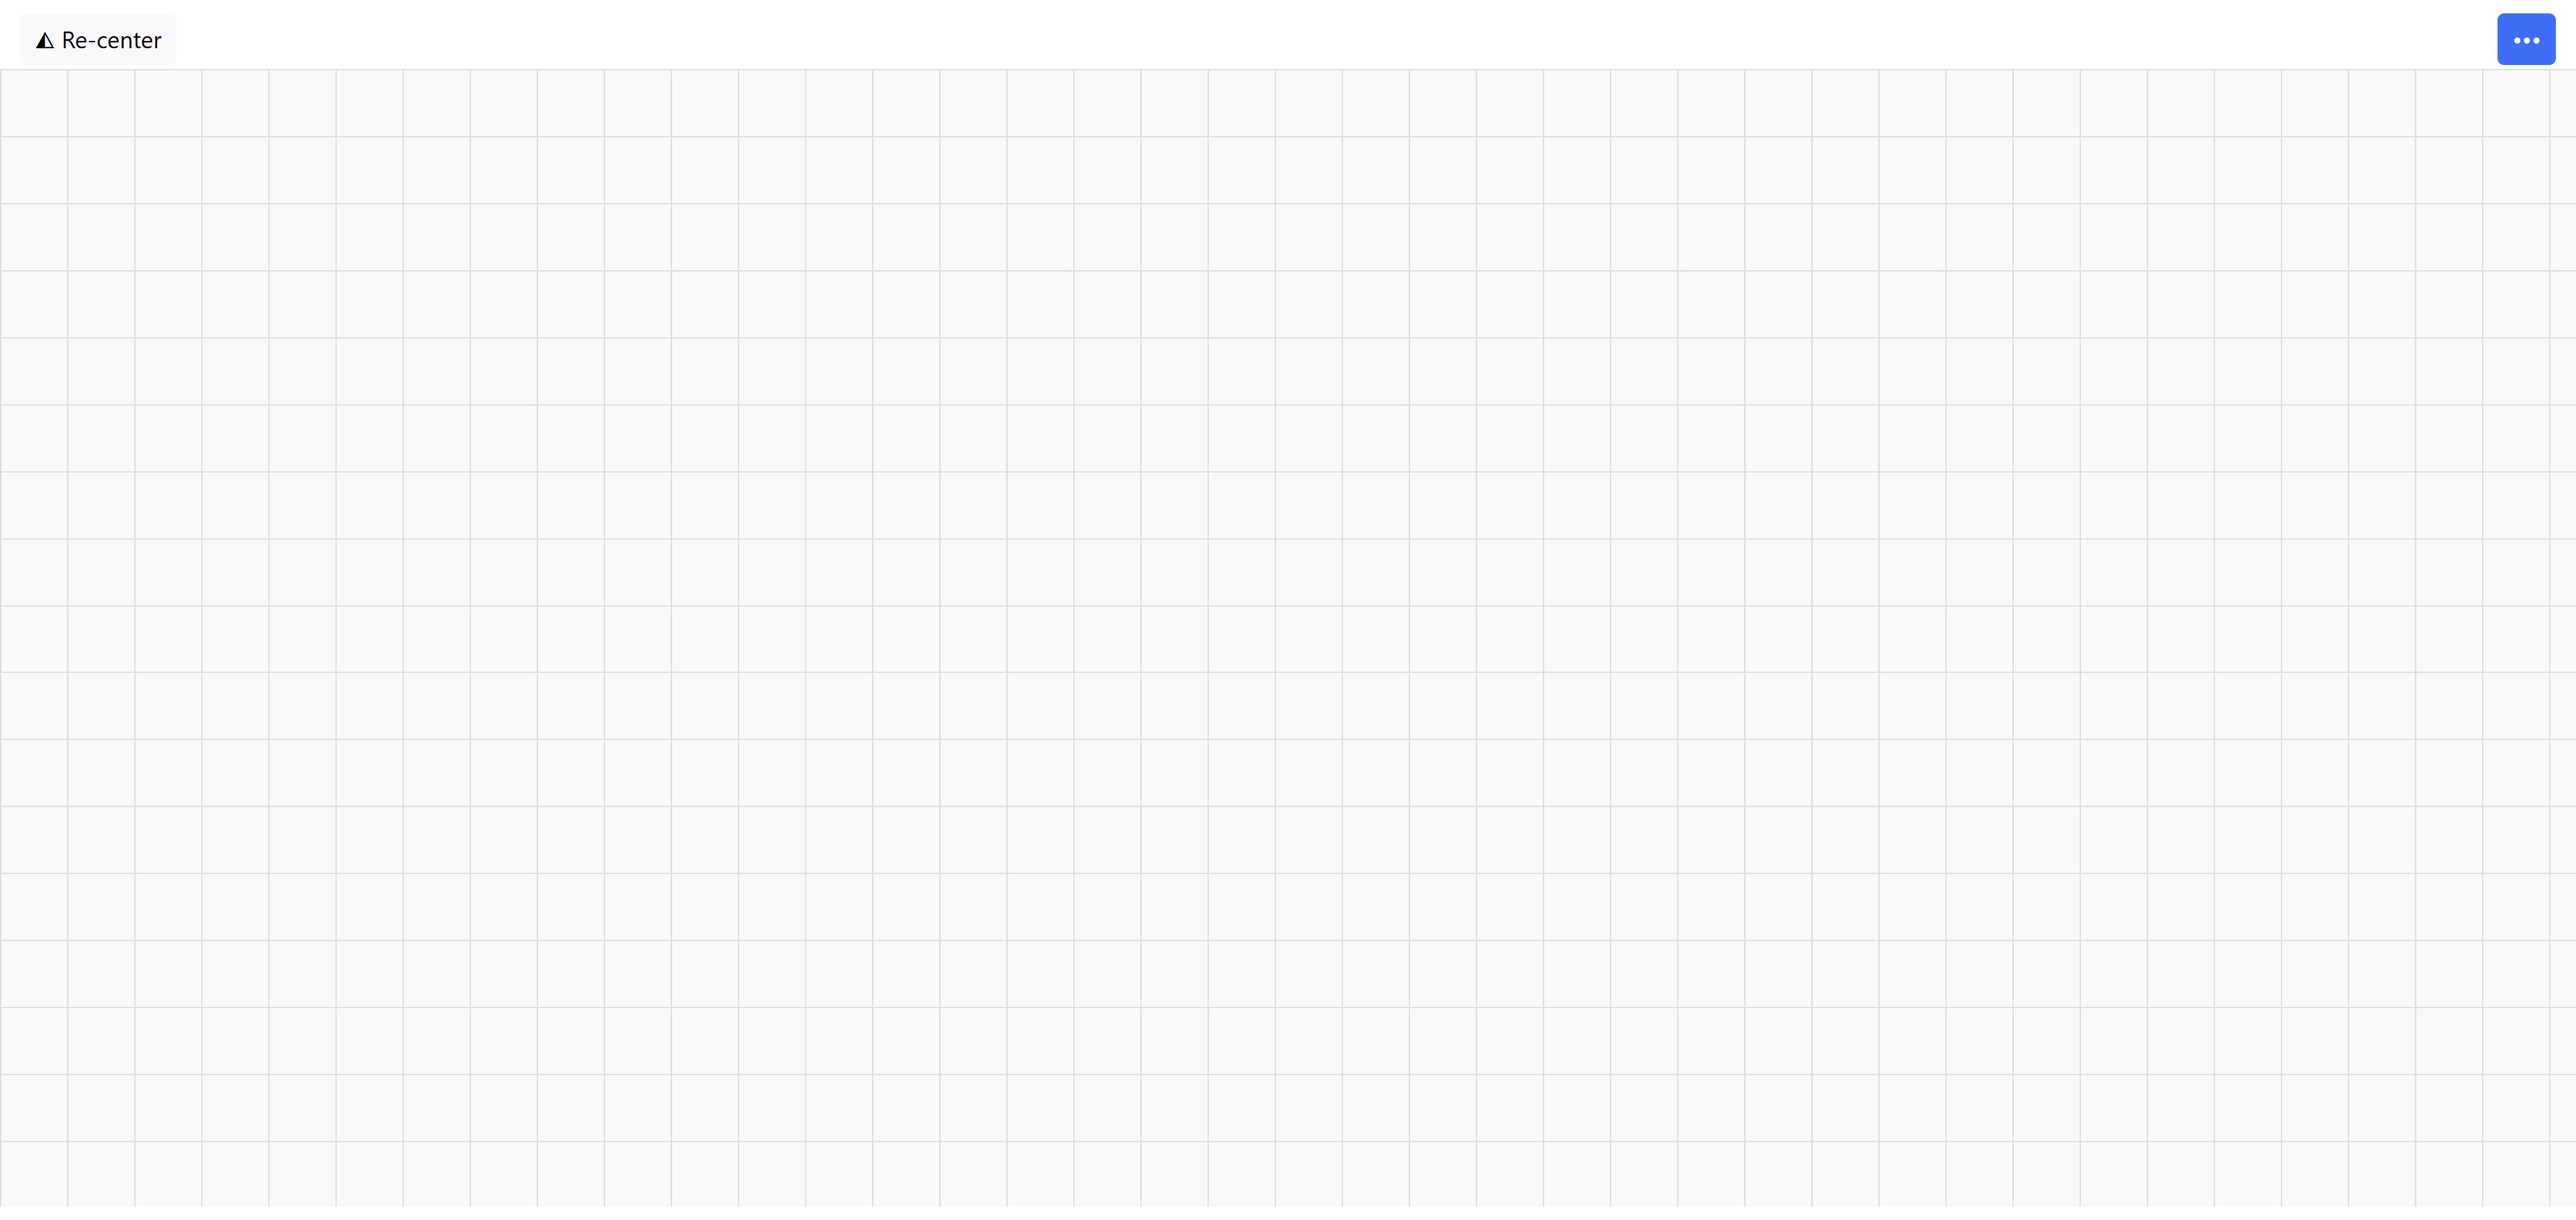
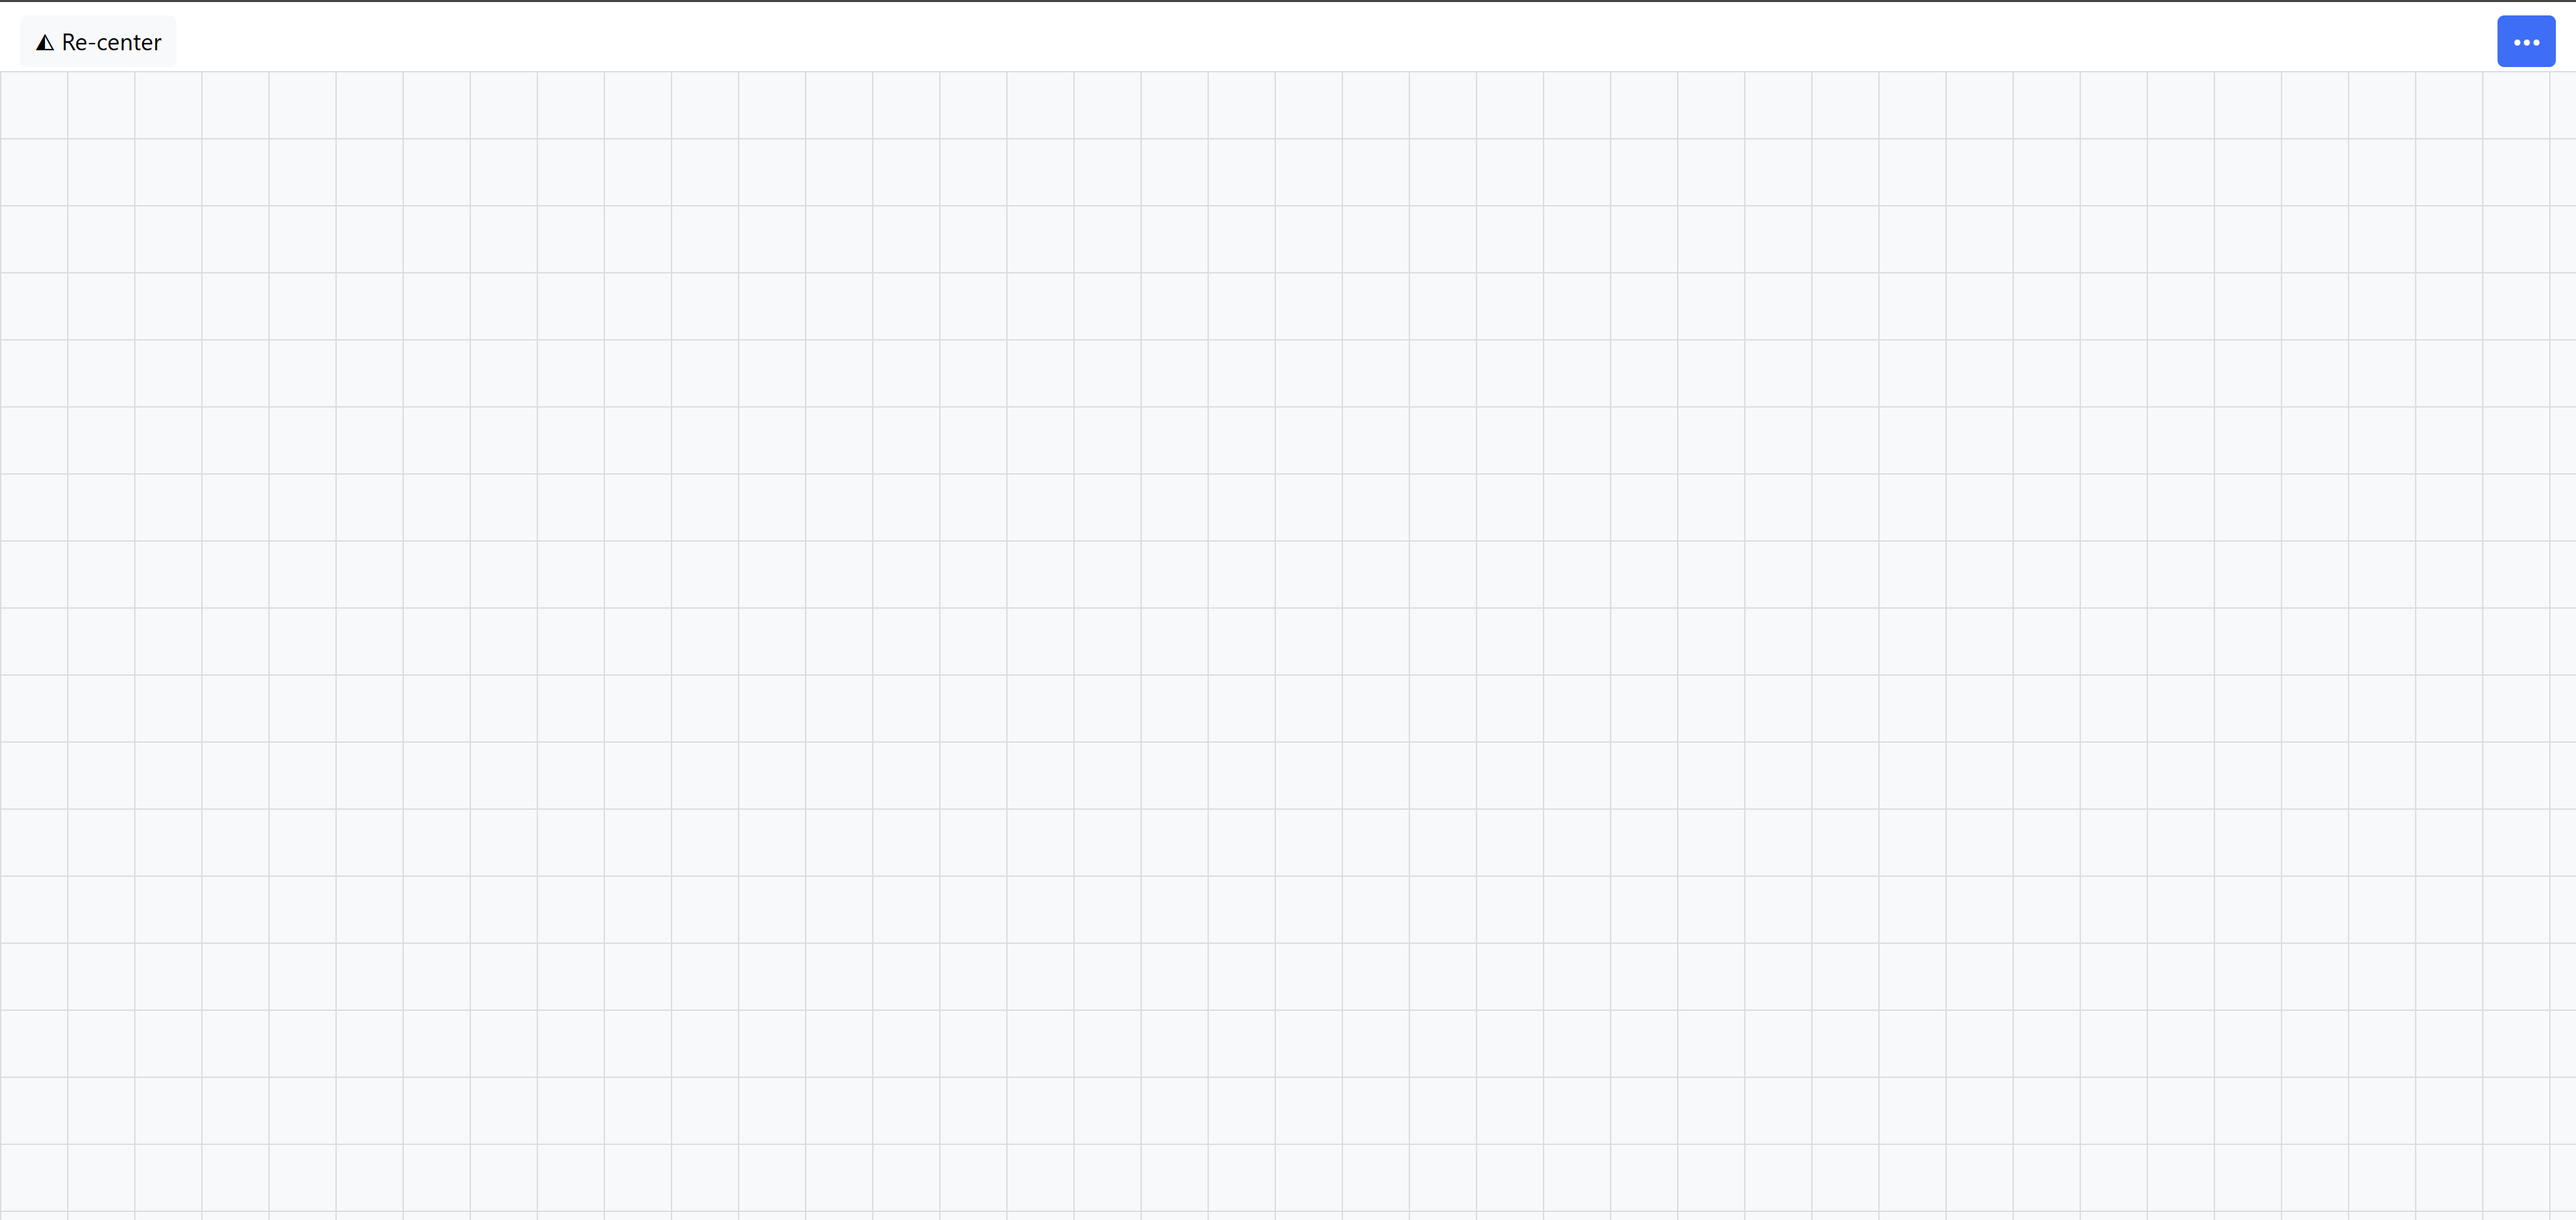
feat(blueprint editor infinity):
The editor can pan any directionand the infinity grid seems to be working but the zoom in and out doesn't work currently

Changed region(s): [[0.0, 0.0308, 0.0625, 0.0615], [0.9688, 0.0308, 1.0, 0.0615]]

diff --git a/wwwroot/js/site.js b/wwwroot/js/site.js
@@ -1,16 +1,15 @@
 document.addEventListener('DOMContentLoaded', () => {
-  const grid = document.querySelector('.infinite-grid');
+  const gridLayer = document.querySelector('.grid-layer');
+  const contentLayer = document.querySelector('.content-layer');
   const recenterBtn = document.getElementById('recenterBtn');
 
   let isPanning = false;
-  let startX = 0;
-  let startY = 0;
-  let translateX = 0;
-  let translateY = 0;
+  let startX = 0, startY = 0;
+  let translateX = 0, translateY = 0;
   let scale = 1;
 
-  // Drag to pan
-  grid.addEventListener('mousedown', (e) => {
+  // ---- Mouse pan ----
+  contentLayer.addEventListener('mousedown', (e) => {
     isPanning = true;
     startX = e.clientX - translateX;
     startY = e.clientY - translateY;
@@ -23,20 +22,60 @@
     updateTransform();
   });
 
-  window.addEventListener('mouseup', () => {
-    isPanning = false;
-  });
+  window.addEventListener('mouseup', () => isPanning = false);
 
-  // Wheel to zoom
-  grid.addEventListener('wheel', (e) => {
+  // ---- Mouse wheel zoom ----
+  contentLayer.addEventListener('wheel', (e) => {
     e.preventDefault();
     const zoomFactor = 0.001;
     scale += e.deltaY * -zoomFactor;
-    scale = Math.min(Math.max(0.2, scale), 5); // Clamp
+    scale = Math.min(Math.max(0.2, scale), 5);
     updateTransform();
   });
 
-  // Recenter
+  // ---- Touch pan & pinch zoom ----
+  let lastTouchDistance = null;
+
+  contentLayer.addEventListener('touchstart', (e) => {
+    if (e.touches.length === 1) {
+      isPanning = true;
+      startX = e.touches[0].clientX - translateX;
+      startY = e.touches[0].clientY - translateY;
+    } else if (e.touches.length === 2) {
+      isPanning = false;
+      lastTouchDistance = getTouchDistance(e.touches);
+    }
+  });
+
+  contentLayer.addEventListener('touchmove', (e) => {
+    e.preventDefault();
+    if (e.touches.length === 1 && isPanning) {
+      translateX = e.touches[0].clientX - startX;
+      translateY = e.touches[0].clientY - startY;
+      updateTransform();
+    } else if (e.touches.length === 2) {
+      const newDistance = getTouchDistance(e.touches);
+      const diff = newDistance - lastTouchDistance;
+      const zoomFactor = 0.005;
+      scale += diff * zoomFactor;
+      scale = Math.min(Math.max(0.2, scale), 5);
+      lastTouchDistance = newDistance;
+      updateTransform();
+    }
+  });
+
+  contentLayer.addEventListener('touchend', (e) => {
+    if (e.touches.length < 2) lastTouchDistance = null;
+    if (e.touches.length === 0) isPanning = false;
+  });
+
+  function getTouchDistance(touches) {
+    const dx = touches[0].clientX - touches[1].clientX;
+    const dy = touches[0].clientY - touches[1].clientY;
+    return Math.sqrt(dx * dx + dy * dy);
+  }
+
+  // ---- Recenter ----
   recenterBtn.addEventListener('click', () => {
     translateX = 0;
     translateY = 0;
@@ -45,7 +84,8 @@
   });
 
   function updateTransform() {
-    grid.style.transform = `translate(${translateX}px, ${translateY}px) scale(${scale})`;
-    grid.style.transformOrigin = '0 0'; // so it zooms from top-left
+    contentLayer.style.transform = `translate(${translateX}px, ${translateY}px) scale(${scale})`;
+    contentLayer.style.transformOrigin = '0 0';
+    gridLayer.style.backgroundPosition = `${translateX}px ${translateY}px`; // only pan grid, don't scale it
   }
 });

diff --git a/wwwroot/css/site.css b/wwwroot/css/site.css
@@ -48,27 +48,36 @@ body {
 
 .editor-canvas {
   position: absolute;
-  top: 41px;
+  top: 41px; /* match header height */
   left: 0;
   width: 100vw;
-  height: calc(100vh - 50px);
+  height: calc(100vh - 41px);
   overflow: hidden;
 }
 
-.infinite-grid {
-  width: 100%;
-  height: 100%; 
+.grid-layer {
+  position: absolute;
+  top: 0; left: 0;
+  width: 100%; height: 100%;
   background-color: #f8f9fa;
   background-image:
     linear-gradient(#ddd 1px, transparent 1px),
     linear-gradient(90deg, #ddd 1px, transparent 1px);
   background-size: 40px 40px;
-  position: relative;
+  background-repeat: repeat;
+  z-index: 0;
 }
 
-.infinite-grid img {
-  position: absolute;  /* 👈 keeps it on top of the grid */
-  top: 50%;
-  left: 50%;
+.content-layer {
+  position: absolute;
+  top: 0; left: 0;
+  width: 100%; height: 100%;
+  z-index: 1;
+  touch-action: none; /* Prevent native pinch-zoom */
+}
+
+.content-layer img {
+  position: absolute;
+  top: 50%; left: 50%;
   transform: translate(-50%, -50%);
 }
